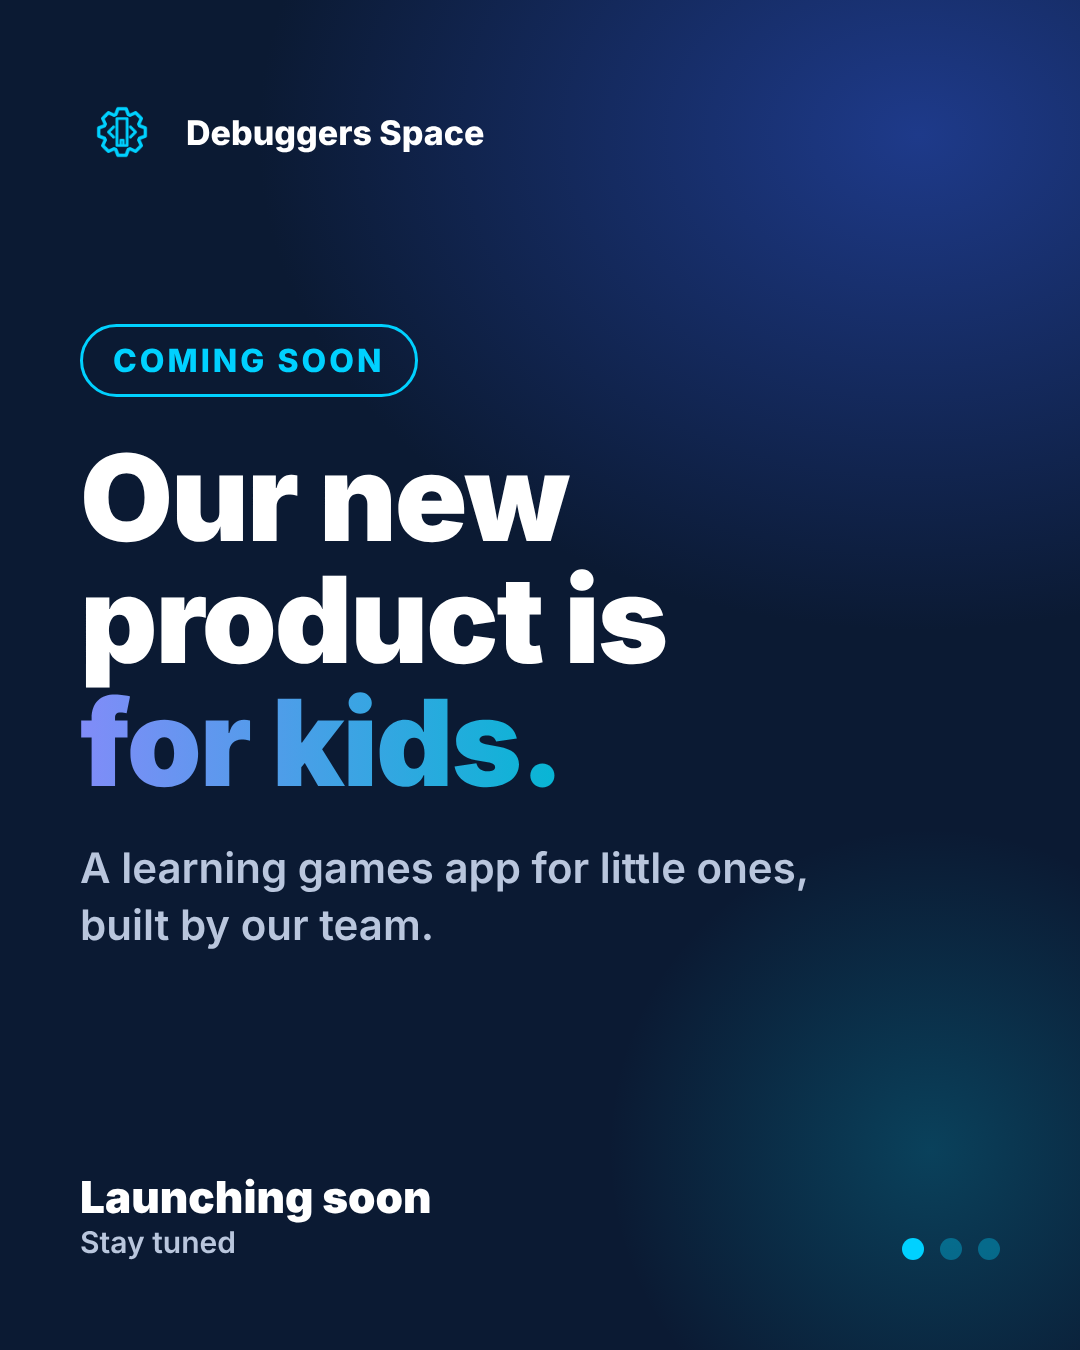
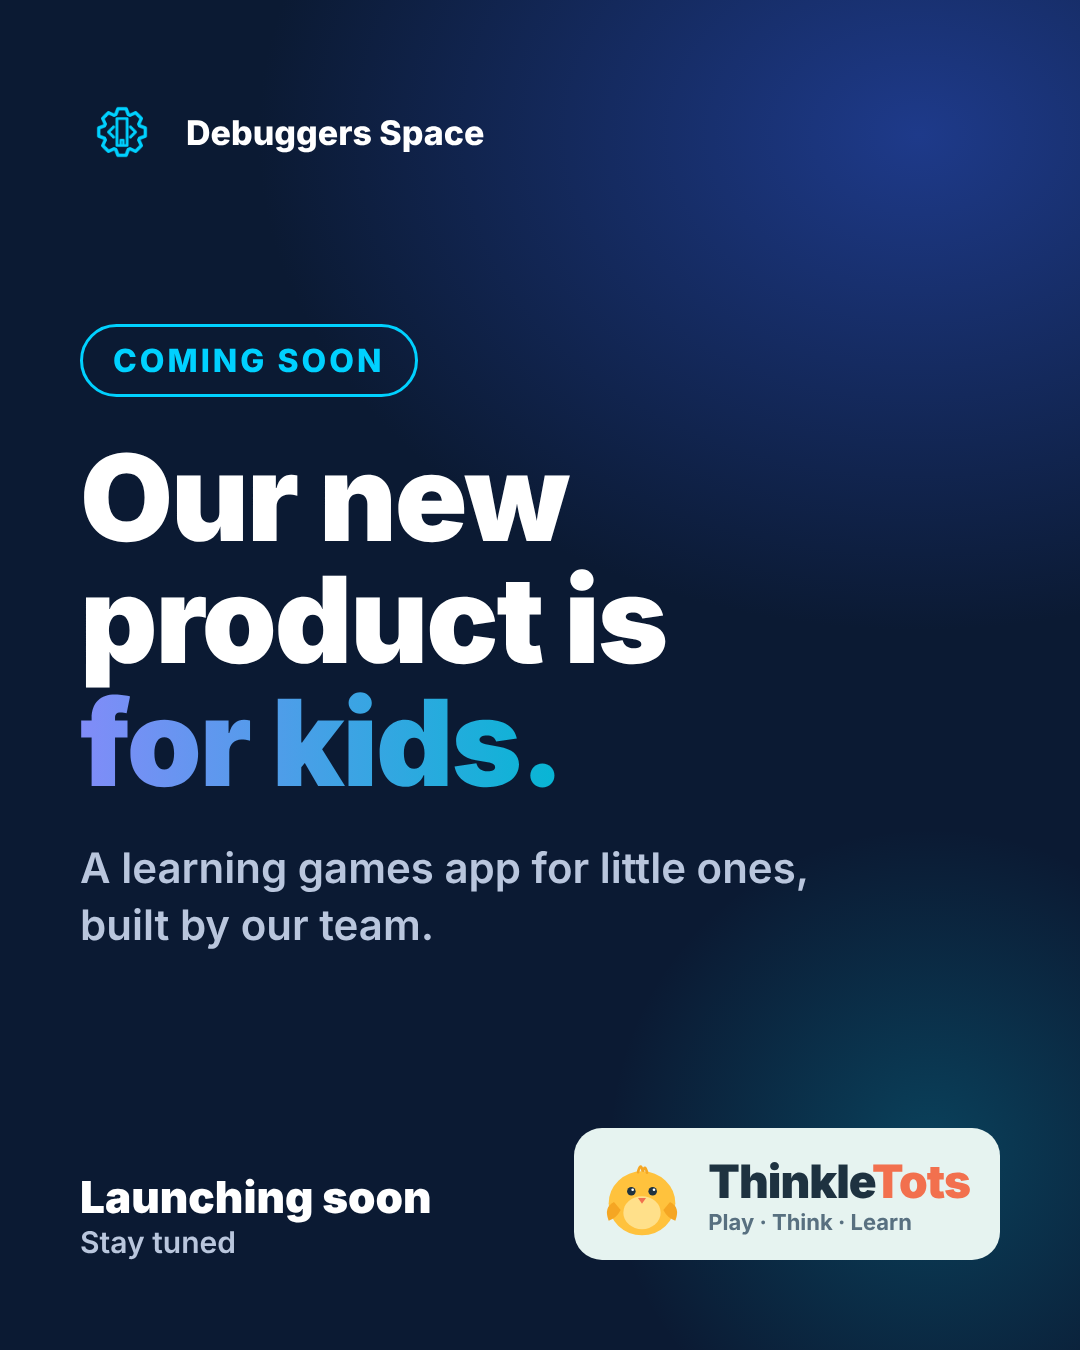
Add ThinkleTots badge to Debuggers Space coming-soon post
Claude-Session: https://claude.ai/code/session_01PcNj6qzQpg9No9RpEoTyJG

Changed region(s): [[0.5194, 0.8089, 0.9472, 0.9333]]

diff --git a/05-thinkletots/ds.html b/05-thinkletots/ds.html
@@ -12,10 +12,10 @@ p{font-size:42px;font-weight:600;color:#b9c6dd;margin-top:36px;line-height:1.35}
 .foot{margin-top:auto;display:flex;justify-content:space-between;align-items:flex-end;font-size:30px;color:#b9c6dd;font-weight:600}
 .foot b{color:#fff;font-size:44px;font-weight:900;display:block}
 .dots{display:flex;gap:16px}.dots i{width:22px;height:22px;border-radius:50%;background:#00d1ff;opacity:.35}.dots i:first-child{opacity:1}
-</style></head><body><div class="glow"></div><div class="wrap">
+.tt{display:flex;align-items:center;gap:18px;background:#E6F3F0;border-radius:28px;padding:18px 30px 18px 20px}.tt b{display:block;font-size:46px;font-weight:900;color:#1E3240;letter-spacing:-1px}.tt b span{color:#F2704E}.tt small{display:block;font-size:22px;font-weight:700;color:#587080}</style></head><body><div class="glow"></div><div class="wrap">
 <div class="brand"><img src="dslogo.png">Debuggers Space</div>
 <div class="pill">COMING SOON</div>
 <h1>Our new<br>product is<br><span>for kids.</span></h1>
 <p>A learning games app for little ones,<br>built by our team.</p>
-<div class="foot"><div><b>Launching soon</b>Stay tuned</div><div class="dots"><i></i><i></i><i></i></div></div>
+<div class="foot"><div><b>Launching soon</b>Stay tuned</div><div class="tt"><svg width="96" height="96" viewBox="0 0 330 360"><ellipse cx="165" cy="215" rx="125" ry="120" fill="#FFC23D"/><ellipse cx="165" cy="250" rx="70" ry="62" fill="#FFE08A"/><path d="M60 210 q-40 20 -20 70 q30 -10 45 -40z" fill="#F5A623"/><path d="M270 210 q40 20 20 70 q-30 -10 -45 -40z" fill="#F5A623"/><circle cx="125" cy="170" r="16" fill="#1E3240"/><circle cx="205" cy="170" r="16" fill="#1E3240"/><circle cx="130" cy="164" r="5" fill="#fff"/><circle cx="210" cy="164" r="5" fill="#fff"/><path d="M150 195 l15 22 l15 -22z" fill="#F2704E"/><path d="M150 98 q10 -40 18 -2 q8 -30 16 4" stroke="#F5A623" stroke-width="10" fill="none" stroke-linecap="round"/></svg><div><b>Thinkle<span>Tots</span></b><small>Play · Think · Learn</small></div></div></div>
 </div></body></html>
